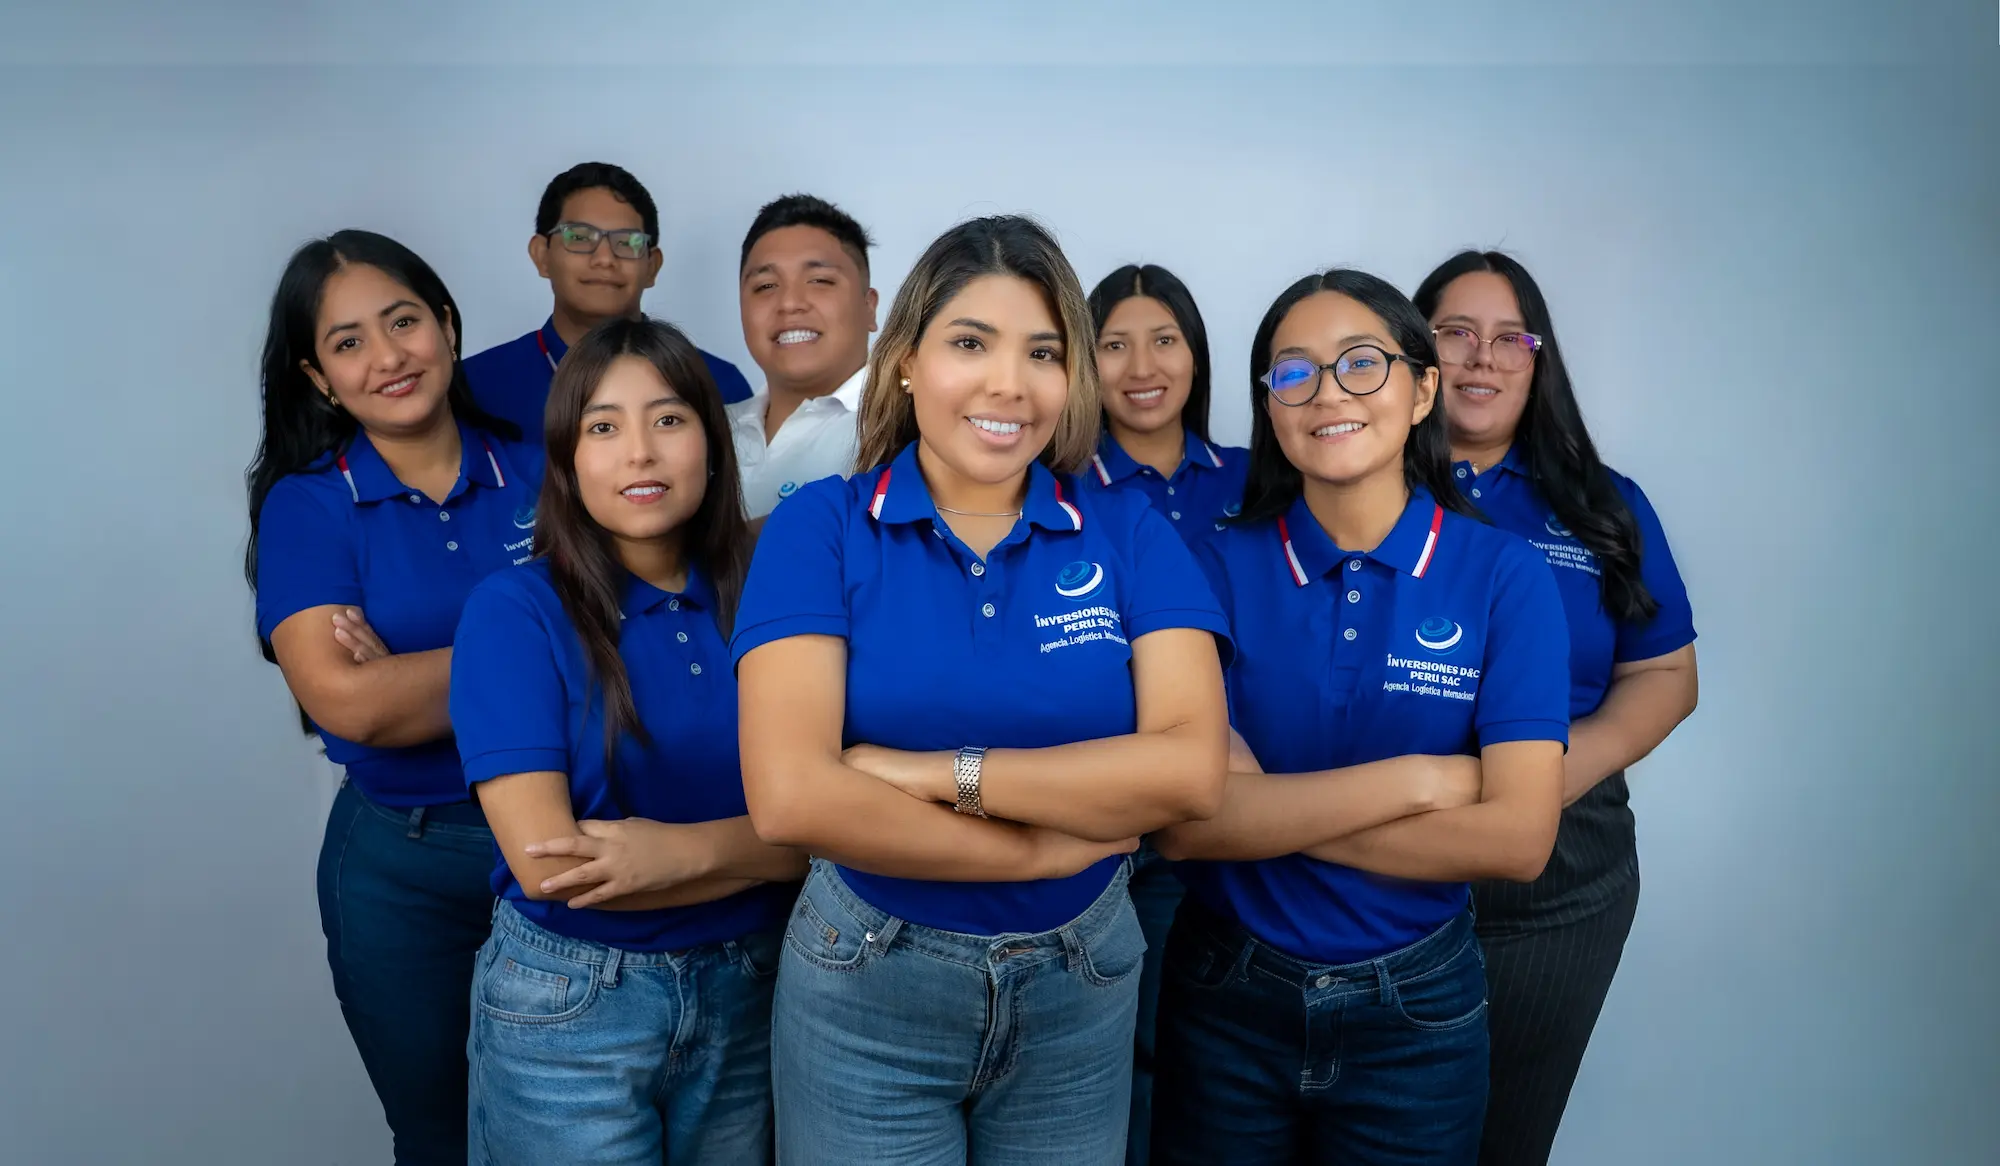
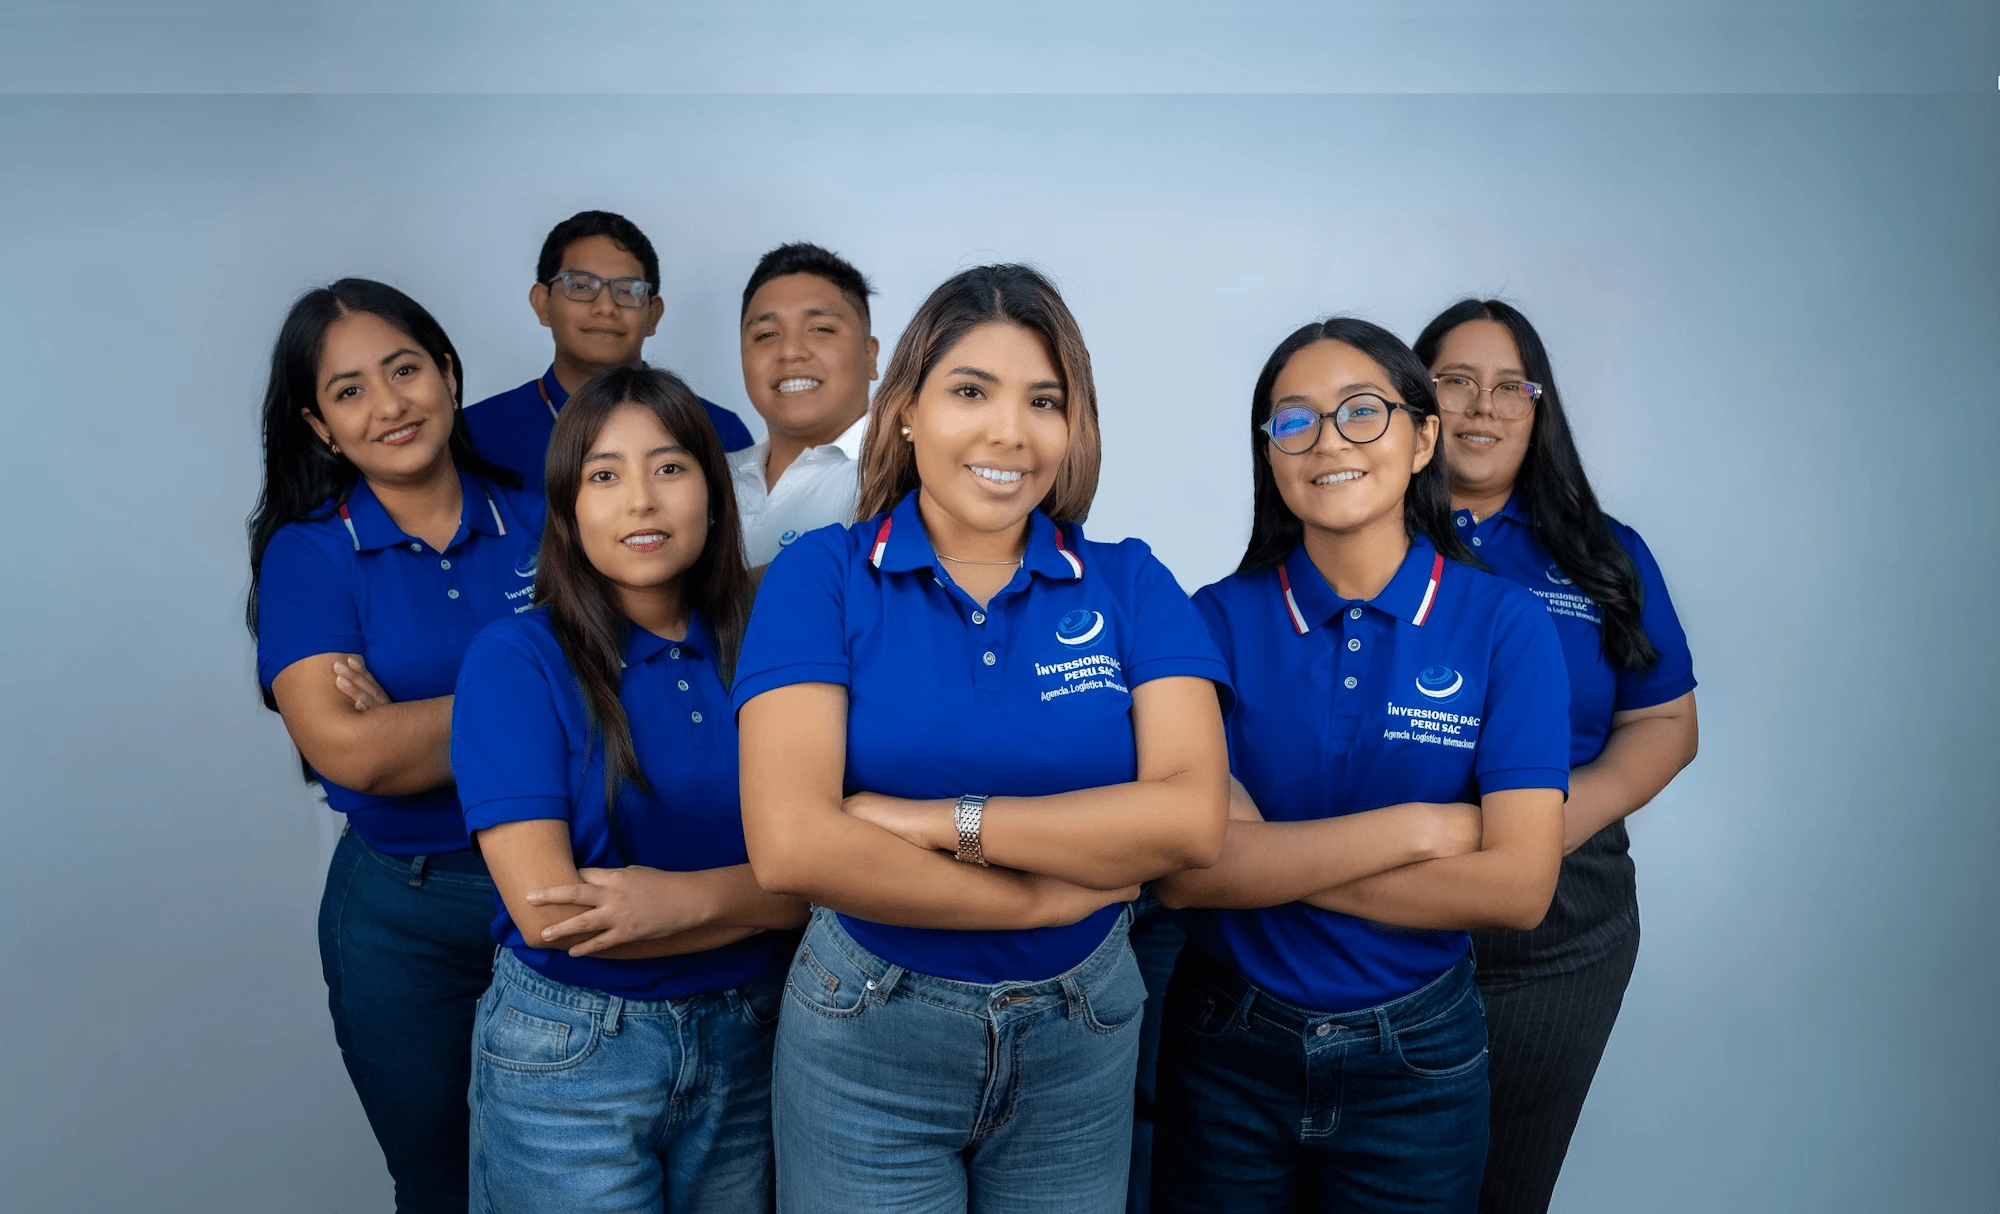
cambio de portada de aparatado de nosotros y añadido de ulises al la seccion de nuestro equipo

Changed region(s): [[0.124, 0.1235, 0.868, 0.988], [0.527, 0.9262, 0.558, 0.9571]]

diff --git a/app/globals.css b/app/globals.css
@@ -1279,7 +1279,7 @@ li {
     justify-content: center;
     align-items: center;
     width: 100%;
-    margin-top: 30px;
+    margin-top: 120px;
     margin-bottom: 70px;
 }
 .imgWithHighLigths-container{
